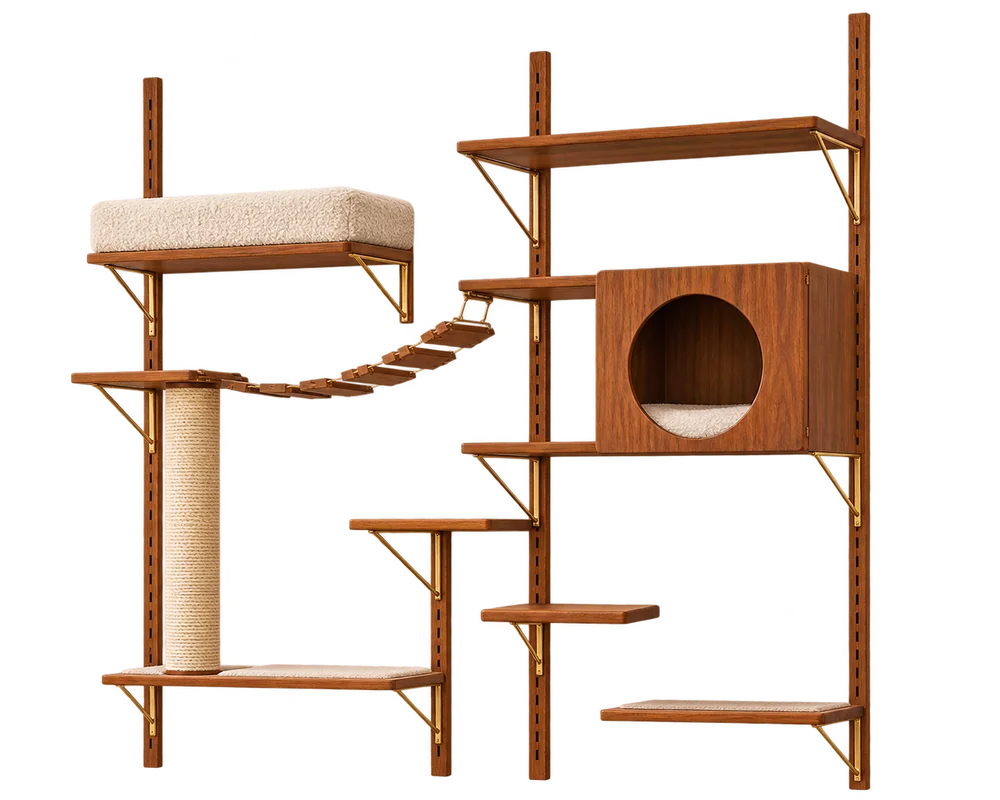
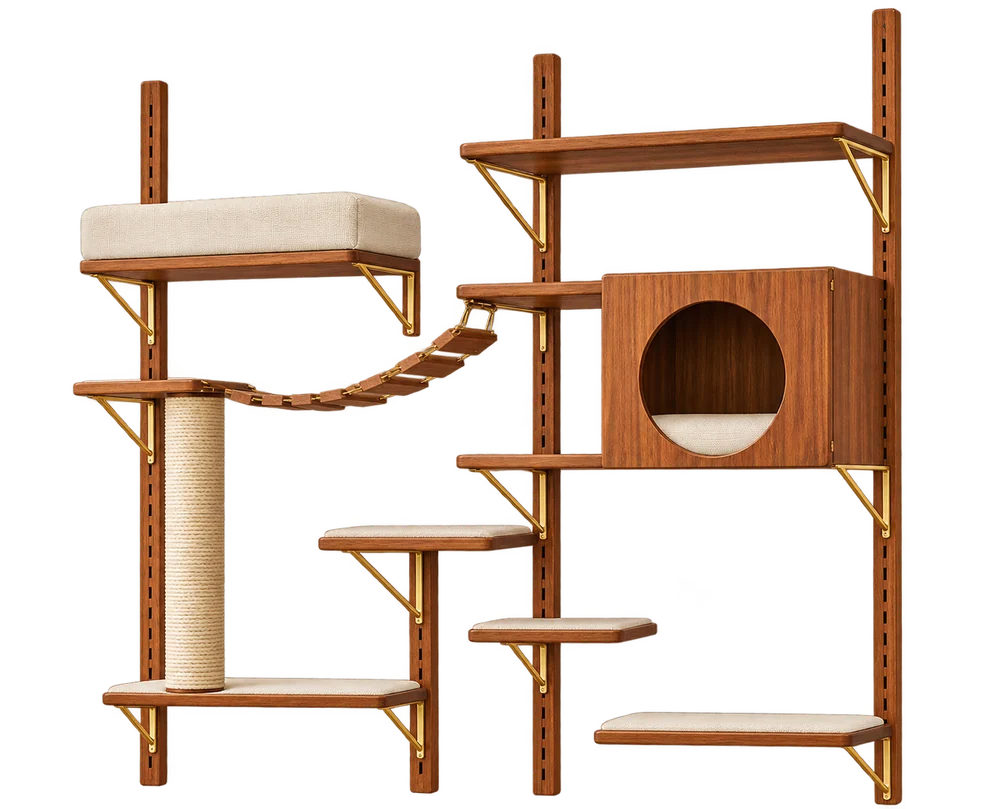
Update Column, System, and hero imagery to performance textiles
New hero shows all three pieces together; Column and System cutouts and room crops replace the boucle versions.

Claude-Session: https://claude.ai/code/session_01B8bkzwgQfMUTbFK6HykT7c

Changed region(s): [[0.062, 0.0, 0.93, 1.0]]

diff --git a/index.html b/index.html
@@ -79,7 +79,7 @@ nav.main a[aria-current="page"],nav.main a:hover{border-color:currentColor}
 .hero-copy p:not(.eyebrow){max-width:38ch;color:#E2D3C1;font-size:18px}
 .hero-copy .btn{align-self:flex-start;color:var(--cream)}
 .hero-copy .btn:hover{background:var(--cream);color:var(--espresso);border-color:var(--cream)}
-.hero-img{min-height:420px;background:url(img/hero.webp) center/cover}
+.hero-img{min-height:420px;background:url(img/hero.webp) 58% center/cover}
 @media (max-width:820px){.hero{grid-template-columns:1fr}.hero-img{min-height:340px;order:-1}}
 
 /* collection */
@@ -314,7 +314,7 @@ body.cart-open .drawer{transform:none}
       <p>Mid-century pieces for cats in solid walnut, brass, and performance textiles, built to the same standard as the room around them.</p>
       <a class="btn" href="#shop">Shop the collection <svg class="arrow" viewBox="0 0 22 10" fill="none" stroke="currentColor"><path d="M0 5h21M16 1l5 4-5 4"/></svg></a>
     </div>
-    <div class="hero-img" role="img" aria-label="A tabby cat curled in The Cocoon beside The Column and a walnut wall system"></div>
+    <div class="hero-img" role="img" aria-label="Four cats on The Column, The System, and The Cocoon in a sunlit living room"></div>
   </div>
 
   <div class="section" id="collections">
@@ -356,9 +356,9 @@ body.cart-open .drawer{transform:none}
     <div class="wrap">
       <div class="sec-head"><h2>At home</h2><a class="link" href="#journal">Read the journal <svg class="arrow" viewBox="0 0 22 10" fill="none" stroke="currentColor"><path d="M0 5h21M16 1l5 4-5 4"/></svg></a></div>
       <div class="mosaic">
-        <figure><a href="#the-system"><img src="img/ed-system.webp" alt="Two cats on The System, a walnut wall system with a hideaway box, rope bridge and sisal post" loading="lazy"></a><figcaption>The System</figcaption></figure>
+        <figure><a href="#the-system"><img src="img/ed-system.webp" alt="Cats on The System, a walnut wall system with a hideaway box, bridge and sisal post, above The Cocoon" loading="lazy"></a><figcaption>The System</figcaption></figure>
         <div class="stack">
-          <figure><a href="#the-column"><img src="img/ed-column.webp" alt="A tabby resting on the lower perch of The Column" loading="lazy"></a><figcaption>The Column</figcaption></figure>
+          <figure><a href="#the-column"><img src="img/ed-column.webp" alt="A tabby scratching the sisal post of The Column" loading="lazy"></a><figcaption>The Column</figcaption></figure>
           <figure><a href="#the-cocoon"><img src="img/ed-cocoon.webp" alt="A tabby in The Cocoon in ivory" loading="lazy"></a><figcaption>The Cocoon</figcaption></figure>
         </div>
       </div>
@@ -481,7 +481,7 @@ body.cart-open .drawer{transform:none}
         </div>
       </article>
       <article class="entry">
-        <div class="ph"><img src="img/ed-column.webp" alt="A cat on The Column next to a walnut sideboard" loading="lazy"></div>
+        <div class="ph"><img src="img/ed-column.webp" alt="A tabby scratching The Column beside a walnut sideboard" loading="lazy"></div>
         <div class="txt">
           <p class="meta">Living · 5 min read</p>
           <h2>Where to put a cat tree</h2>
